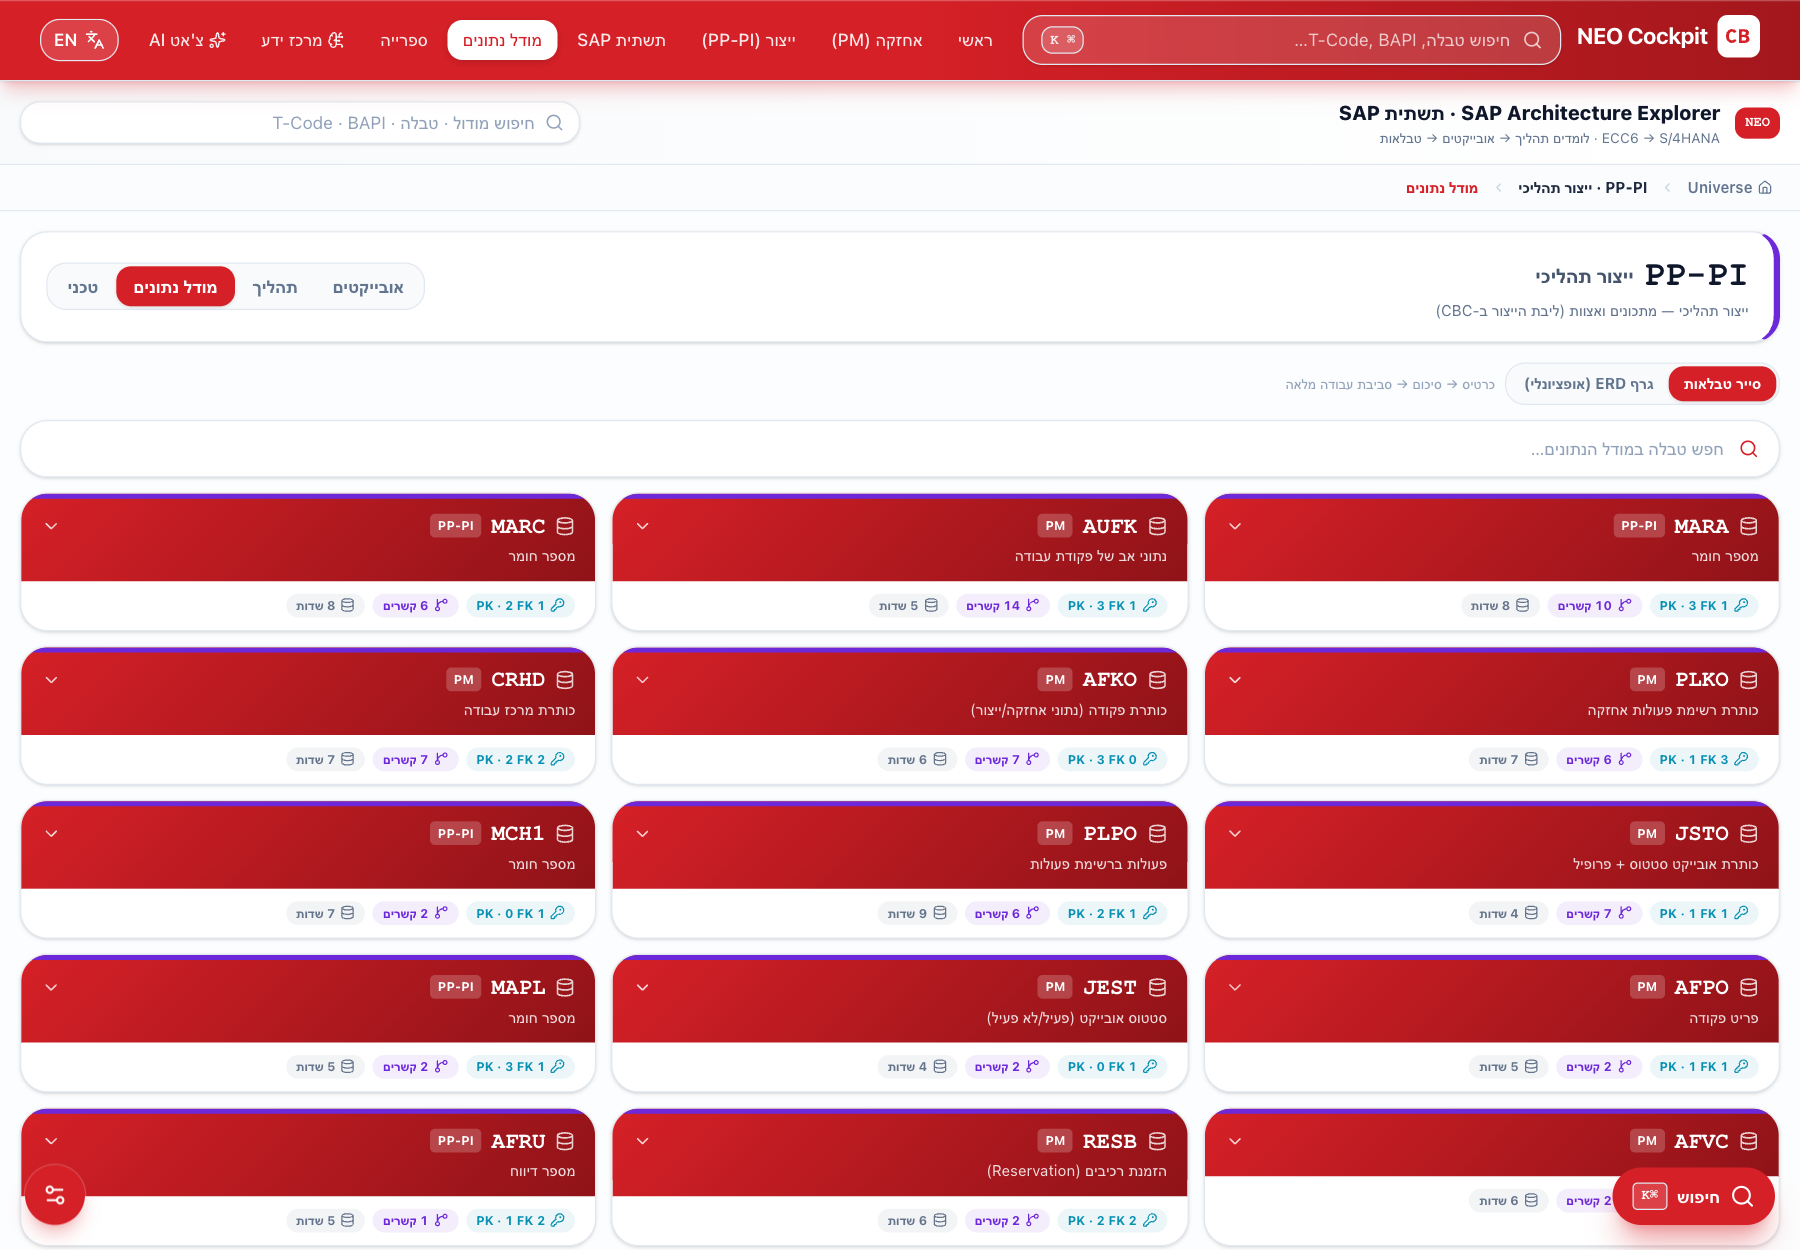
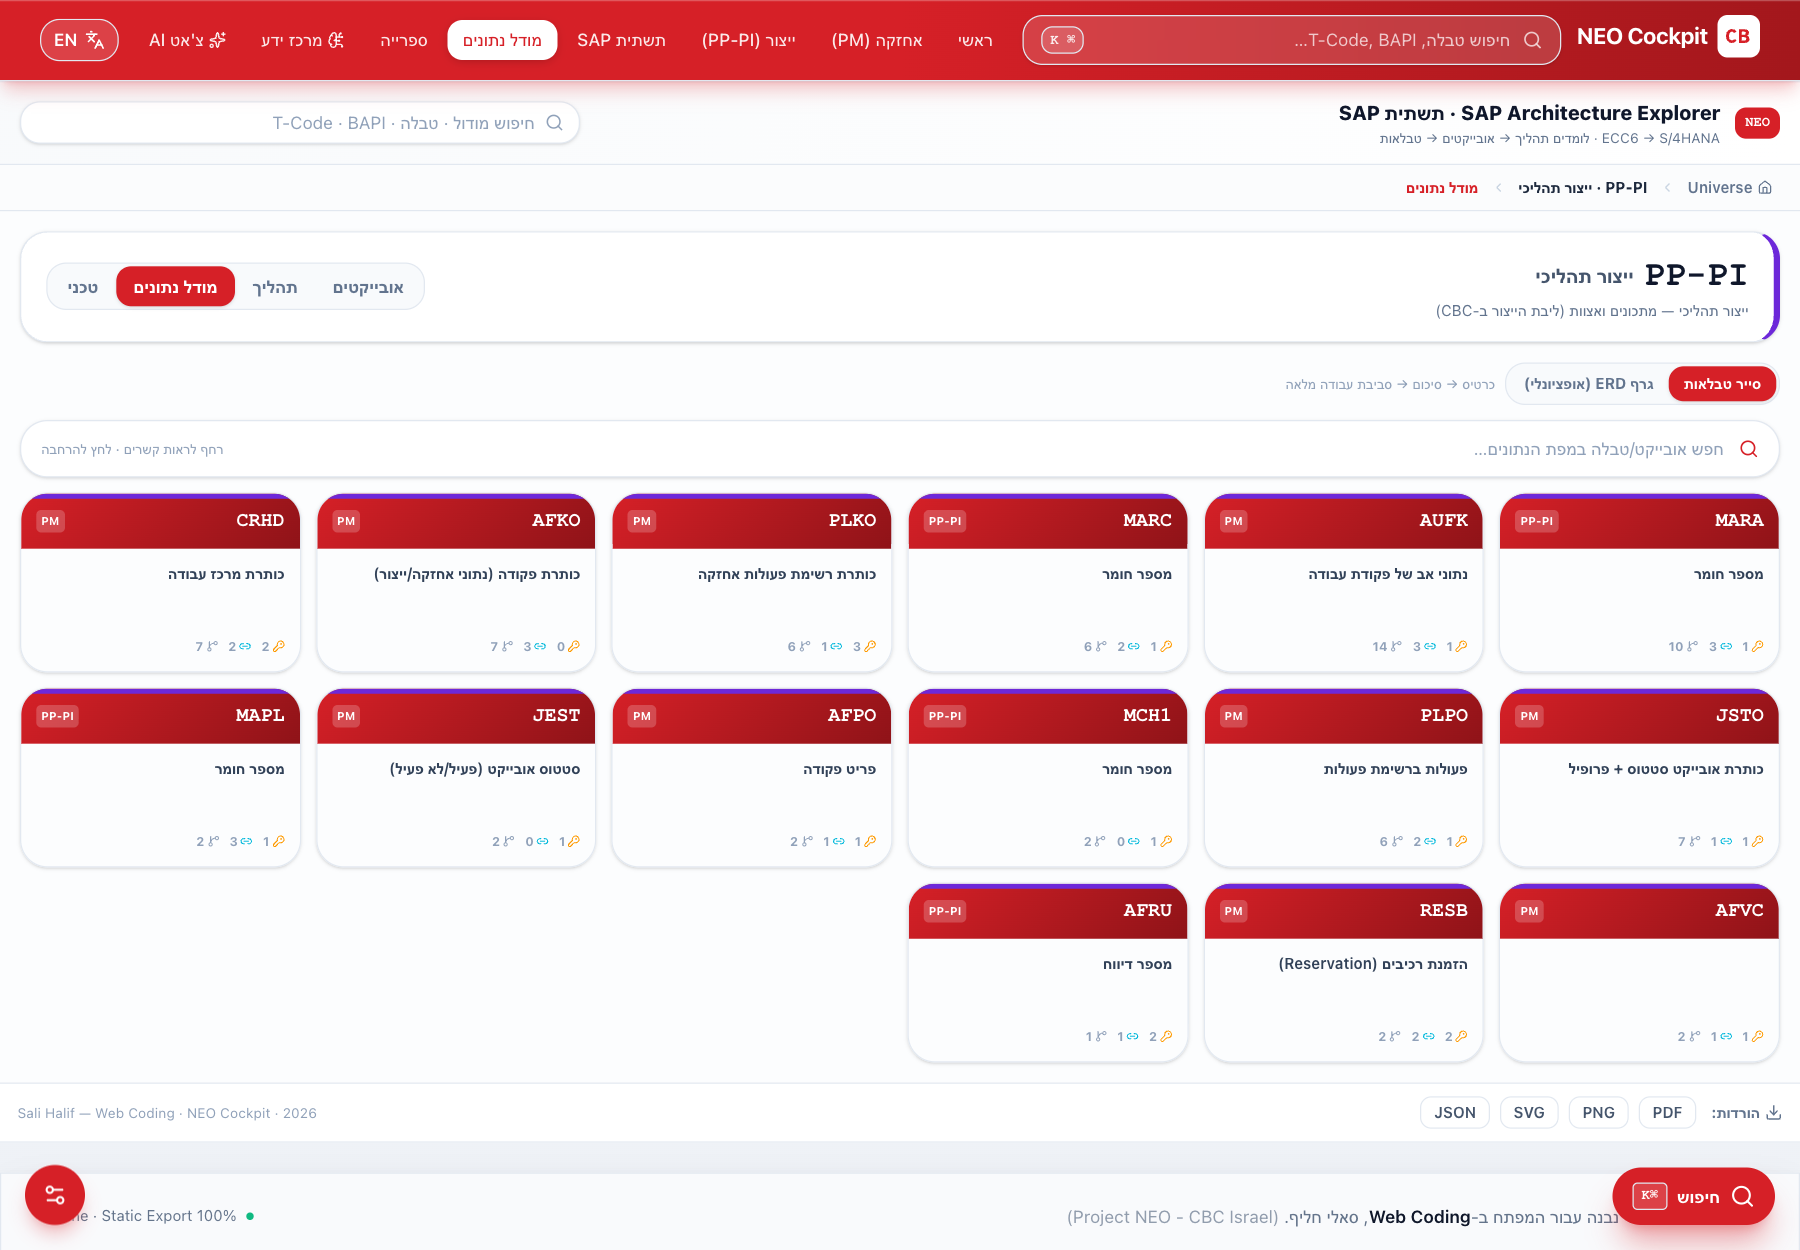
redesign(data-model): Object Explorer — square cards + relationship map
Replace the long-rectangle table list with an SAP Table Explorer:
- square-ish red cards (h-36), 4-6 per row (xl:grid-cols-6), Objects-page language
- L1: red card — table name + business title + PK/FK/rel mini-counts
- hover: draws connector lines (SVG overlay, measured) to related cards,
  dims unrelated → business object map, spatial relationships visible
- L2: click → inline expand under the card (PK/FK, main fields, relationships,
  ECC→S/4)
- L3: "סביבת עבודה מלאה" → full Inspector workspace drawer
ERD graph still available via toggle. Build clean, 0 console errors, 0 external.

diff --git a/app/sap-infrastructure/page.tsx b/app/sap-infrastructure/page.tsx
@@ -269,75 +269,117 @@ const MODES = [["focus", "מיקוד", "Focus"], ["dep", "תלויות", "Depend
 type Mode = typeof MODES[number][0];
 const orderFields = (tf: Field[]) => [...tf.filter((f) => f[3] === "PK"), ...tf.filter((f) => f[3] === "FK"), ...tf.filter((f) => f[3] !== "PK" && f[3] !== "FK")];
 
-/* ===================== DATA MODEL — Table Explorer Premium (L1→L2→L3) ===================== */
+/* ===================== DATA MODEL — Object Explorer (square cards + relationship map) ===================== */
+type Line = { x1: number; y1: number; x2: number; y2: number };
 function DataModelExplorer({ data, color, code, byName, onTable }: { data: Data; color: (m?: string | null) => string; code: string; byName: Record<string, Tbl>; onTable: (t: string) => void }) {
   const c = color(code);
   const [q, setQ] = useState("");
   const [open, setOpen] = useState<string | null>(null);
+  const [hover, setHover] = useState<string | null>(null);
+  const [lines, setLines] = useState<Line[]>([]);
+  const wrapRef = useRef<HTMLDivElement | null>(null);
+  const cardRef = useRef<Record<string, HTMLDivElement | null>>({});
+
   const all = useMemo(() => erdMembers(data, code).sort((a, b) => b.degree - a.degree), [data, code]);
   const s = q.trim().toLowerCase();
   const rows = useMemo(() => (s ? all.filter((t) => t.name.toLowerCase().includes(s) || (t.he || "").includes(q) || (t.en || "").toLowerCase().includes(s) || (t.tcodes || "").toLowerCase().includes(s)) : all), [all, s, q]);
+  const present = useMemo(() => new Set(rows.map((t) => t.name)), [rows]);
+  const relatedOf = useCallback((name: string) => { const t = byName[name]; return new Set((t?.rel || []).map((r) => r.table).filter((n) => present.has(n))); }, [byName, present]);
+
+  // draw connector lines from hovered card to its related cards (centers, relative to wrapper)
+  useEffect(() => {
+    if (!hover || open) { setLines([]); return; }
+    const wrap = wrapRef.current; const from = cardRef.current[hover];
+    if (!wrap || !from) { setLines([]); return; }
+    const wr = wrap.getBoundingClientRect();
+    const fr = from.getBoundingClientRect();
+    const cx = fr.left - wr.left + fr.width / 2, cy = fr.top - wr.top + fr.height / 2;
+    const out: Line[] = [];
+    relatedOf(hover).forEach((n) => { const el = cardRef.current[n]; if (!el) return; const r = el.getBoundingClientRect(); out.push({ x1: cx, y1: cy, x2: r.left - wr.left + r.width / 2, y2: r.top - wr.top + r.height / 2 }); });
+    setLines(out);
+  }, [hover, open, relatedOf, rows]);
+
+  const related = hover && !open ? relatedOf(hover) : null;
 
   return (
     <div className="space-y-3">
       <div className="flex items-center gap-3 rounded-2xl border border-slate-200 bg-white px-4 py-2.5 shadow-sm focus-within:border-[#d62027]/40">
         <Search className="size-4 shrink-0 text-[#d62027]" />
-        <input value={q} onChange={(e) => { setQ(e.target.value); setOpen(null); }} placeholder="חפש טבלה במודל הנתונים…" className="h-6 w-full bg-transparent text-sm outline-none placeholder:text-slate-400" />
-        {q && <span className="shrink-0 rounded-lg bg-[#d62027]/10 px-2 py-0.5 text-xs font-extrabold text-[#d62027]">{rows.length} טבלאות</span>}
+        <input value={q} onChange={(e) => { setQ(e.target.value); setOpen(null); }} placeholder="חפש אובייקט/טבלה במפת הנתונים…" className="h-6 w-full bg-transparent text-sm outline-none placeholder:text-slate-400" />
+        <span className="hidden shrink-0 text-[11px] font-medium text-slate-400 sm:block">רחף לראות קשרים · לחץ להרחבה</span>
+        {q && <span className="shrink-0 rounded-lg bg-[#d62027]/10 px-2 py-0.5 text-xs font-extrabold text-[#d62027]">{rows.length}</span>}
       </div>
-      <div className="grid gap-3 lg:grid-cols-2 xl:grid-cols-3">
-        {rows.map((t) => {
-          const isOpen = open === t.name;
-          const pk = t.fields.filter((f) => f[3] === "PK"), fk = t.fields.filter((f) => f[3] === "FK");
-          const rels = t.rel || [];
-          return (
-            <div key={t.name} className={`group relative overflow-hidden rounded-2xl border bg-white shadow-sm transition-all ${isOpen ? "border-transparent shadow-xl ring-1 ring-[#d62027]/30 xl:col-span-2" : "border-slate-200 hover:-translate-y-1 hover:shadow-xl"}`}>
-              {/* L1 — red table card */}
-              <button onClick={() => setOpen(isOpen ? null : t.name)} className="block w-full text-start">
-                <div className="relative px-4 py-3 text-white" style={{ background: "linear-gradient(135deg,#d62027,#8f1318)" }}>
-                  <span className="absolute inset-x-0 top-0 h-1" style={{ background: c }} />
-                  <div className="flex items-center justify-between gap-2">
-                    <div className="flex items-center gap-2"><Database className="size-4 opacity-80" /><span className="font-mono text-lg font-extrabold" dir="ltr"><Highlight text={t.name} query={q} /></span><span className="rounded bg-white/20 px-1.5 py-0.5 text-[10px] font-bold">{t.mod}</span></div>
-                    <ChevronDown className={`size-4 shrink-0 text-white/80 transition-transform ${isOpen ? "rotate-180" : ""}`} />
+
+      <div ref={wrapRef} className="relative">
+        {/* relationship overlay (business object map) */}
+        <svg className="pointer-events-none absolute inset-0 z-20 size-full overflow-visible" aria-hidden>
+          {lines.map((l, i) => (
+            <g key={i}>
+              <line x1={l.x1} y1={l.y1} x2={l.x2} y2={l.y2} stroke={c} strokeWidth={2} strokeOpacity={0.55} strokeDasharray="5 4" strokeLinecap="round" />
+              <circle cx={l.x2} cy={l.y2} r={3.5} fill={c} />
+            </g>
+          ))}
+        </svg>
+
+        <div className="grid grid-cols-2 gap-3 sm:grid-cols-3 lg:grid-cols-4 xl:grid-cols-6">
+          {rows.map((t) => {
+            const isOpen = open === t.name;
+            const pk = t.fields.filter((f) => f[3] === "PK"), fk = t.fields.filter((f) => f[3] === "FK");
+            const rels = t.rel || [];
+            const isRel = related?.has(t.name);
+            const dim = related && !isRel && t.name !== hover;
+            return (
+              <div key={t.name} ref={(el) => { cardRef.current[t.name] = el; }}
+                onMouseEnter={() => !open && setHover(t.name)} onMouseLeave={() => setHover((h) => (h === t.name ? null : h))}
+                className={`relative z-10 transition-all duration-200 ${isOpen ? "col-span-2 sm:col-span-3 lg:col-span-4 xl:col-span-6" : ""} ${dim ? "opacity-40" : "opacity-100"}`}>
+                {/* L1 — square red card */}
+                <button onClick={() => { setOpen(isOpen ? null : t.name); setHover(null); }}
+                  className={`flex w-full flex-col overflow-hidden rounded-2xl border text-start shadow-sm transition-all ${isOpen ? "border-transparent ring-2" : isRel ? "border-transparent ring-2 -translate-y-0.5" : "border-slate-200 hover:-translate-y-1 hover:shadow-xl"} ${isOpen ? "" : "h-36"}`}
+                  style={(isOpen || isRel) ? ({ ["--tw-ring-color"]: c } as React.CSSProperties) : undefined}>
+                  <div className="relative px-3 py-2.5 text-white" style={{ background: "linear-gradient(135deg,#d62027,#8f1318)" }}>
+                    <span className="absolute inset-x-0 top-0 h-1" style={{ background: c }} />
+                    <div className="flex items-center justify-between gap-1">
+                      <span className="font-mono text-base font-extrabold" dir="ltr"><Highlight text={t.name} query={q} /></span>
+                      <span className="rounded bg-white/20 px-1 py-0.5 text-[9px] font-bold">{t.mod}</span>
+                    </div>
                   </div>
-                  <p className="mt-0.5 truncate text-xs text-white/85"><Highlight text={t.he || t.en} query={q} /></p>
-                </div>
-                {!isOpen && (
-                  <div className="flex flex-wrap items-center gap-1.5 px-4 py-2.5">
-                    <Tag icon={<KeyRound className="size-3" />} t={`${pk.length} PK · ${fk.length} FK`} tone="#0891b2" />
-                    <Tag icon={<GitBranch className="size-3" />} t={`${rels.length} קשרים`} tone={c} />
-                    <Tag icon={<Database className="size-3" />} t={`${t.fields.length} שדות`} tone="#64748b" />
+                  {!isOpen && (
+                    <div className="flex flex-1 flex-col justify-between p-3">
+                      <p className="line-clamp-2 text-xs font-semibold leading-snug text-slate-700"><Highlight text={t.he || t.en} query={q} /></p>
+                      <div className="flex items-center gap-2 text-[10px] font-bold text-slate-400">
+                        <span className="flex items-center gap-0.5"><KeyRound className="size-2.5 text-amber-500" />{pk.length}</span>
+                        <span className="flex items-center gap-0.5"><Link2 className="size-2.5 text-cyan-500" />{fk.length}</span>
+                        <span className="flex items-center gap-0.5"><GitBranch className="size-2.5" />{rels.length}</span>
+                      </div>
+                    </div>
+                  )}
+                  {isOpen && <div className="px-3 pb-1 pt-2 text-sm font-semibold text-slate-700"><Highlight text={t.he || t.en} query={q} /></div>}
+                </button>
+
+                {/* L2 — inline expand under the card */}
+                {isOpen && (
+                  <div className="mt-2 space-y-3 rounded-2xl border border-slate-200 bg-white p-4 shadow-xl" style={{ animation: "fadeUp .3s ease both" }}>
+                    <div className="grid gap-3 sm:grid-cols-2 lg:grid-cols-4">
+                      <Field2 label="מפתח ראשי (PK)" tone="#d97706">{pk.length ? pk.map((f) => <Chip2 key={f[0]} q={q}>{f[0]}</Chip2>) : <Dash />}</Field2>
+                      <Field2 label="מפתח זר (FK)" tone="#0891b2">{fk.length ? fk.map((f) => <Chip2 key={f[0]} q={q}>{f[0]}</Chip2>) : <Dash />}</Field2>
+                      <Field2 label="שדות עיקריים" tone="#475569">{t.fields.slice(0, 8).map((f) => <Chip2 key={f[0]} q={q}>{f[0]}</Chip2>)}</Field2>
+                      <Field2 label="קשרים" tone={c}>{rels.length ? rels.slice(0, 8).map((r) => (
+                        <button key={r.role + r.table} onClick={() => byName[r.table] && onTable(r.table)} className="tech rounded-md border border-slate-200 bg-slate-50 px-2 py-0.5 text-[11px] font-bold text-slate-600 transition hover:text-[#d62027]" dir="ltr">{r.role === "parent" ? "↓" : "↑"} <Highlight text={r.table} query={q} /> <span className="text-slate-400">{r.card}</span></button>
+                      )) : <Dash />}</Field2>
+                    </div>
+                    {t.s4 && <p className="rounded-lg bg-amber-50 px-2.5 py-1.5 text-[12px] font-medium text-amber-900"><span className="font-bold">ECC → S/4: </span><Highlight text={t.s4} query={q} />{t.s4alt ? ` · חלופה: ${t.s4alt}` : ""}</p>}
+                    <button onClick={() => onTable(t.name)} className="lift inline-flex items-center gap-1.5 rounded-xl px-3 py-2 text-xs font-bold text-white shadow-lg" style={{ background: c, boxShadow: `0 8px 18px ${c}55` }}>
+                      <Workflow className="size-3.5" />סביבת עבודה מלאה<ArrowLeft className="size-3.5" />
+                    </button>
                   </div>
                 )}
-              </button>
-
-              {/* L2 — inline summary */}
-              {isOpen && (
-                <div className="space-y-3 p-4" style={{ animation: "fadeUp .3s ease both" }}>
-                  <p className="text-sm leading-relaxed text-slate-600"><Highlight text={t.he || t.en} query={q} /></p>
-                  <div className="grid grid-cols-2 gap-2">
-                    <Field2 label="PK" tone="#d97706">{pk.length ? pk.map((f) => <Chip2 key={f[0]} q={q}>{f[0]}</Chip2>) : <Dash />}</Field2>
-                    <Field2 label="FK" tone="#0891b2">{fk.length ? fk.map((f) => <Chip2 key={f[0]} q={q}>{f[0]}</Chip2>) : <Dash />}</Field2>
-                  </div>
-                  <Field2 label="שדות עיקריים" tone="#475569">{t.fields.slice(0, 8).map((f) => <Chip2 key={f[0]} q={q}>{f[0]}</Chip2>)}</Field2>
-                  <Field2 label="קשרים" tone={c}>{rels.length ? rels.slice(0, 8).map((r) => (
-                    <button key={r.role + r.table} onClick={() => byName[r.table] && onTable(r.table)} className="tech rounded-md border border-slate-200 bg-slate-50 px-2 py-0.5 text-[11px] font-bold text-slate-600 transition hover:text-[#d62027]" dir="ltr">{r.role === "parent" ? "↓" : "↑"} <Highlight text={r.table} query={q} /> <span className="text-slate-400">{r.card}</span></button>
-                  )) : <Dash />}</Field2>
-                  {t.s4 && <p className="rounded-lg bg-amber-50 px-2.5 py-1.5 text-[12px] font-medium text-amber-900"><span className="font-bold">ECC → S/4: </span><Highlight text={t.s4} query={q} />{t.s4alt ? ` · חלופה: ${t.s4alt}` : ""}</p>}
-                  <button onClick={() => onTable(t.name)} className="lift inline-flex items-center gap-1.5 rounded-xl px-3 py-2 text-xs font-bold text-white shadow-lg" style={{ background: c, boxShadow: `0 8px 18px ${c}55` }}>
-                    <Workflow className="size-3.5" />סביבת עבודה מלאה<ArrowLeft className="size-3.5" />
-                  </button>
-                </div>
-              )}
-            </div>
-          );
-        })}
+              </div>
+            );
+          })}
+        </div>
       </div>
     </div>
   );
-}
-function Tag({ icon, t, tone }: { icon: React.ReactNode; t: string; tone: string }) {
-  return <span className="inline-flex items-center gap-1 rounded-full px-2 py-0.5 text-[10px] font-bold tabular-nums" style={{ background: tone + "14", color: tone }}>{icon}{t}</span>;
 }
 function Field2({ label, tone, children }: { label: string; tone: string; children: React.ReactNode }) {
   return <div><p className="mb-1 text-[10px] font-bold uppercase tracking-wide" style={{ color: tone }}>{label}</p><div className="flex flex-wrap gap-1.5">{children}</div></div>;
